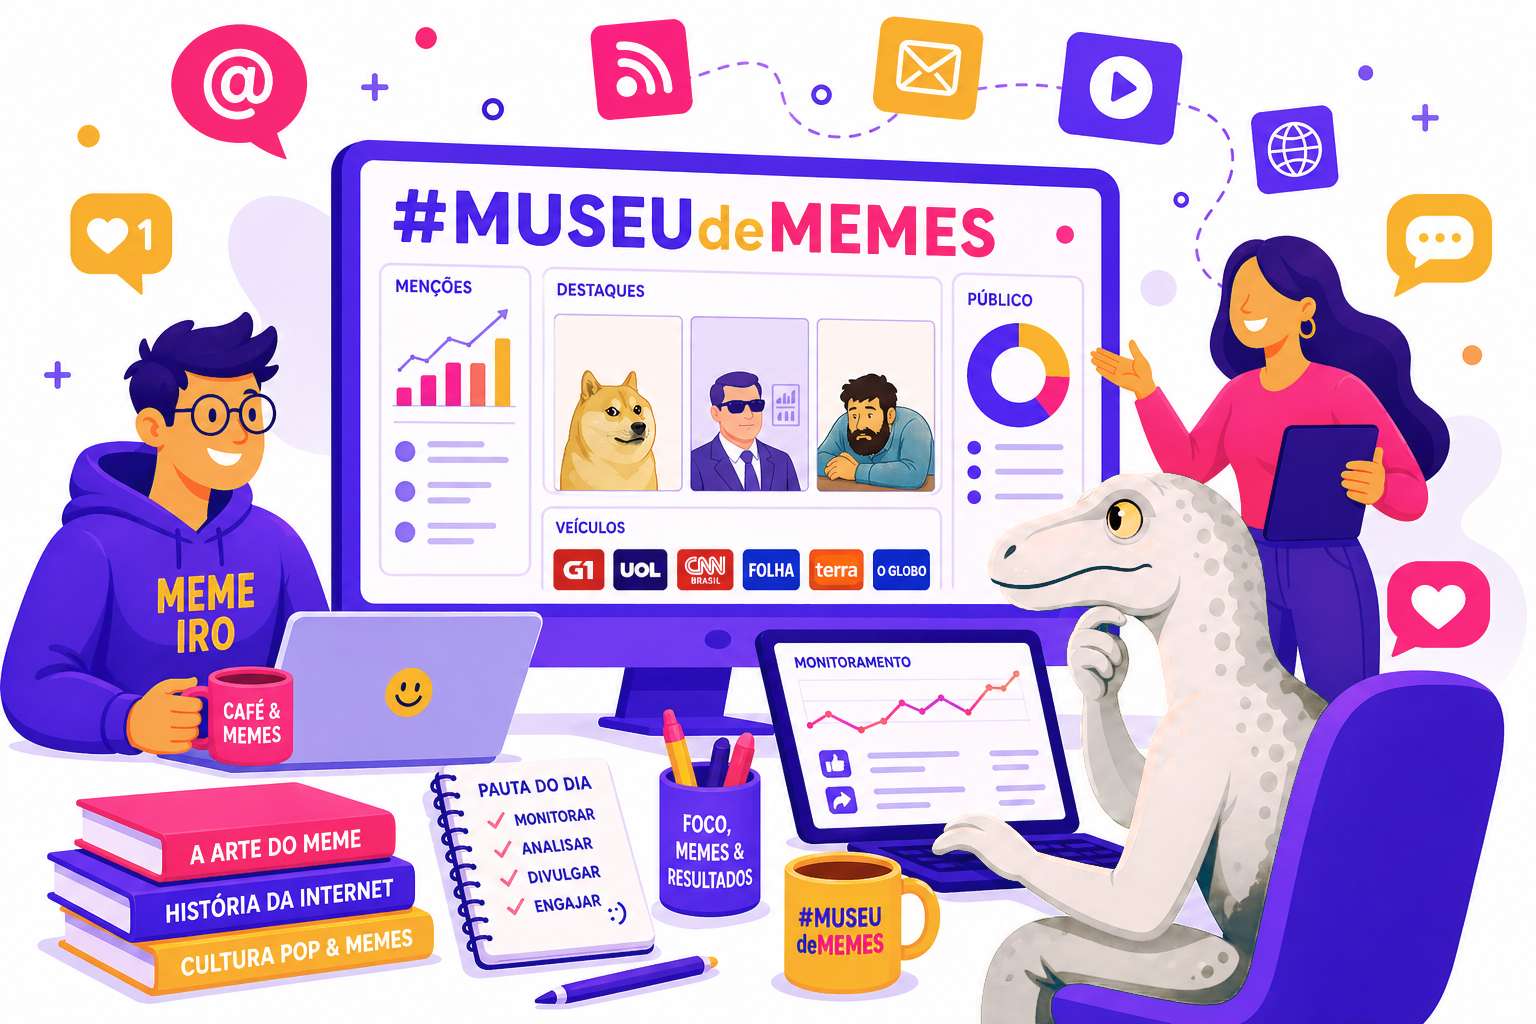
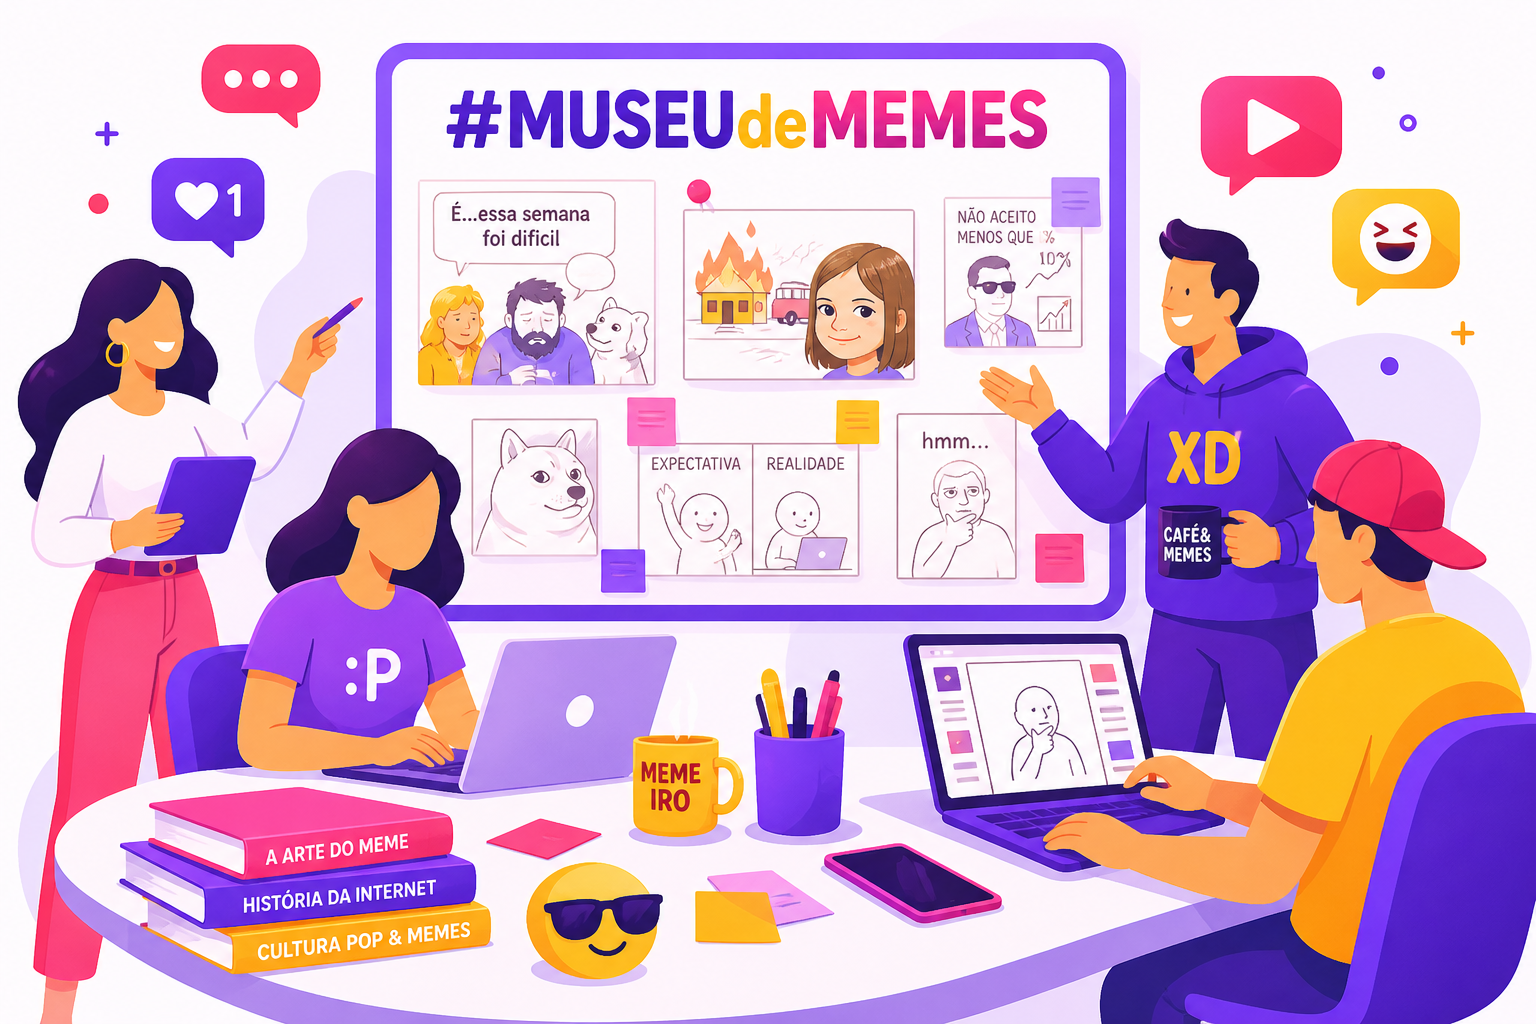
Atualizar page_escritorio02 e substituir imagem da página Clipping por page_clipping01

diff --git a/pages/clipping.md b/pages/clipping.md
@@ -12,8 +12,8 @@ scroll_top_btn:
 features18:
   enable: true
   services:
-    - image: "/assets/img/photos/about3.webp"
-      image_2x: "/assets/img/photos/about3@2x.webp"
+    - image: "/images_static/page_clipping01.png"
+      image_2x: "/images_static/page_clipping01.png"
       alt: "O #MUSEUdeMEMES na Mídia"
       image_right: false
       icon: "/assets/img/icons/lineal/megaphone.svg"
